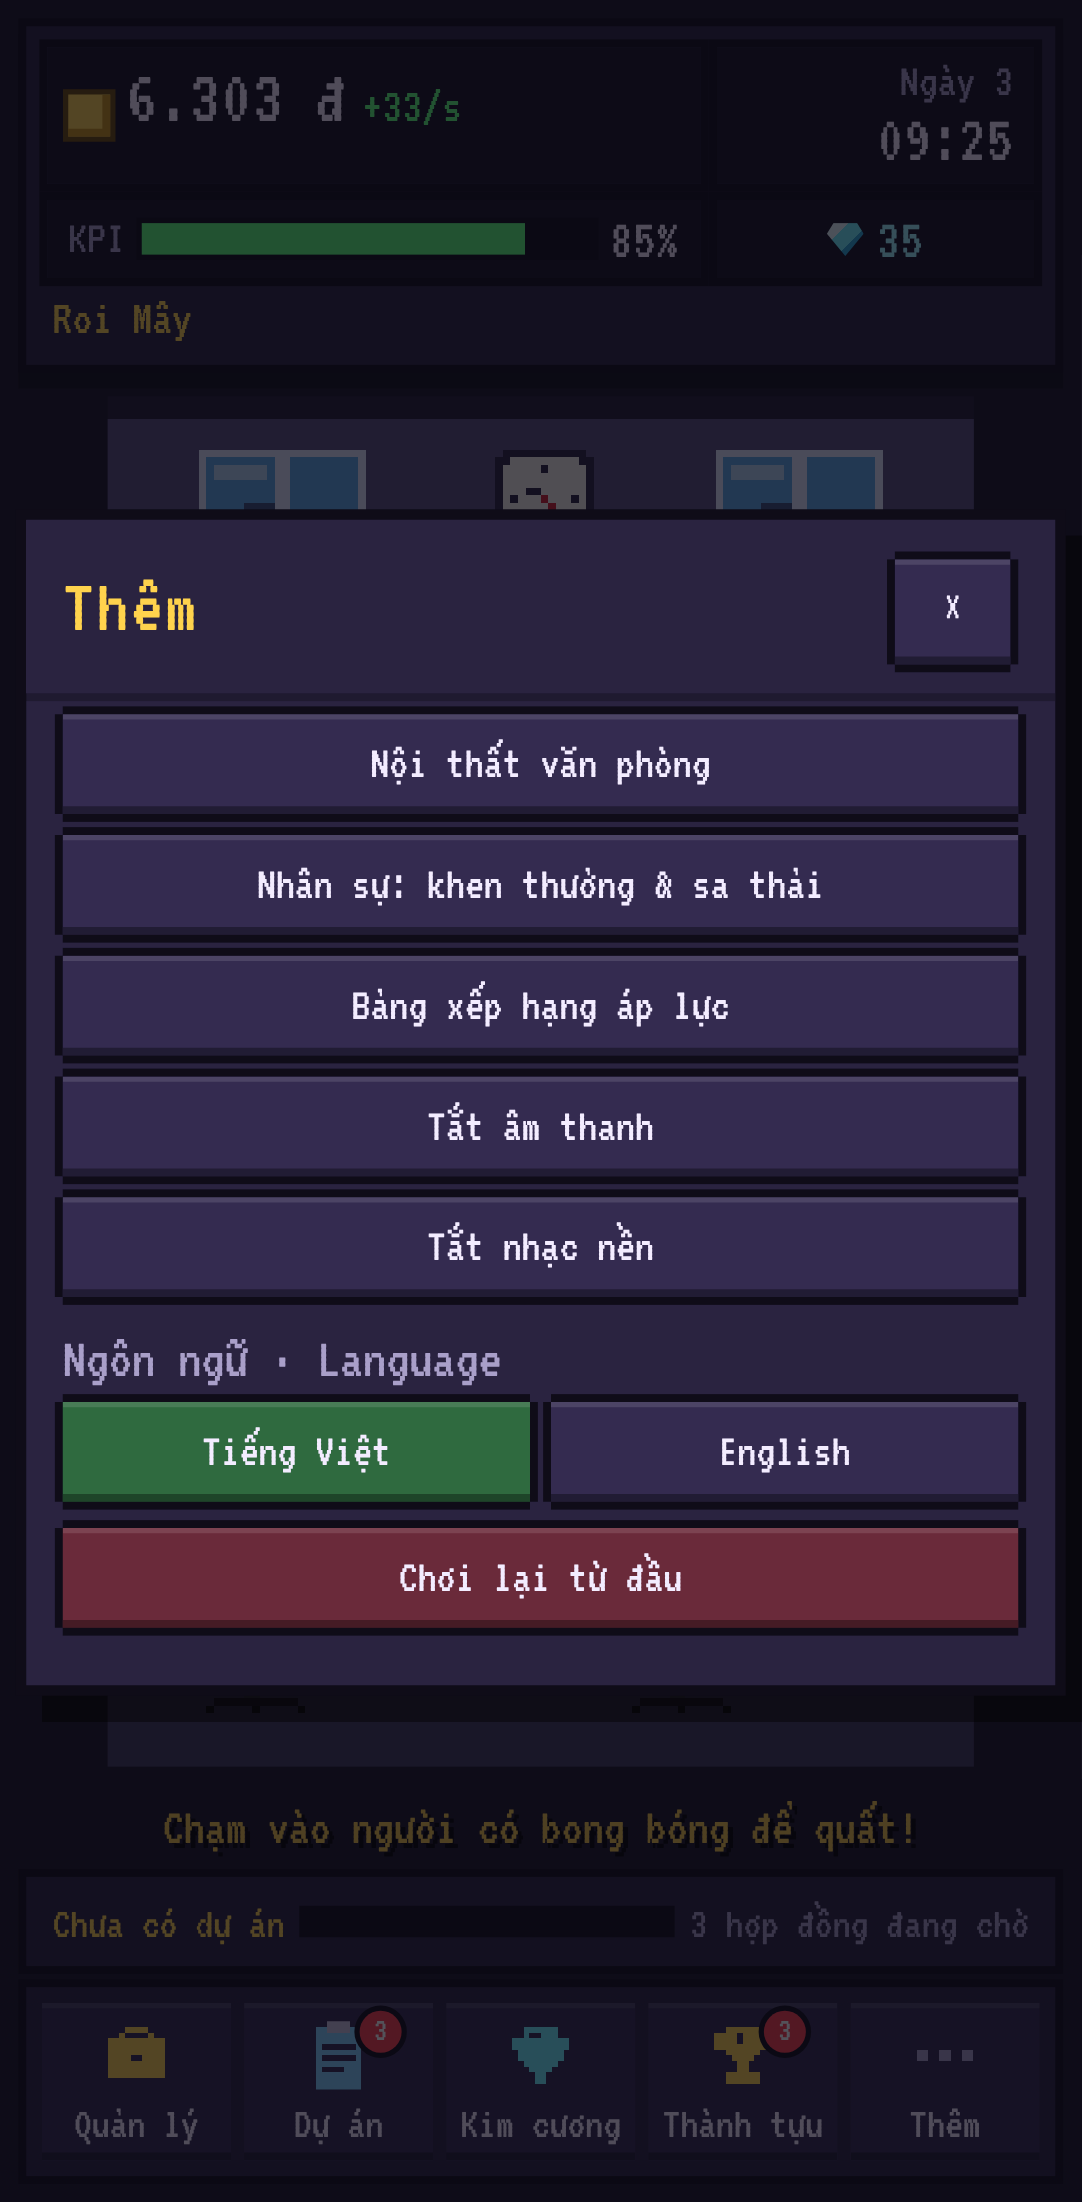
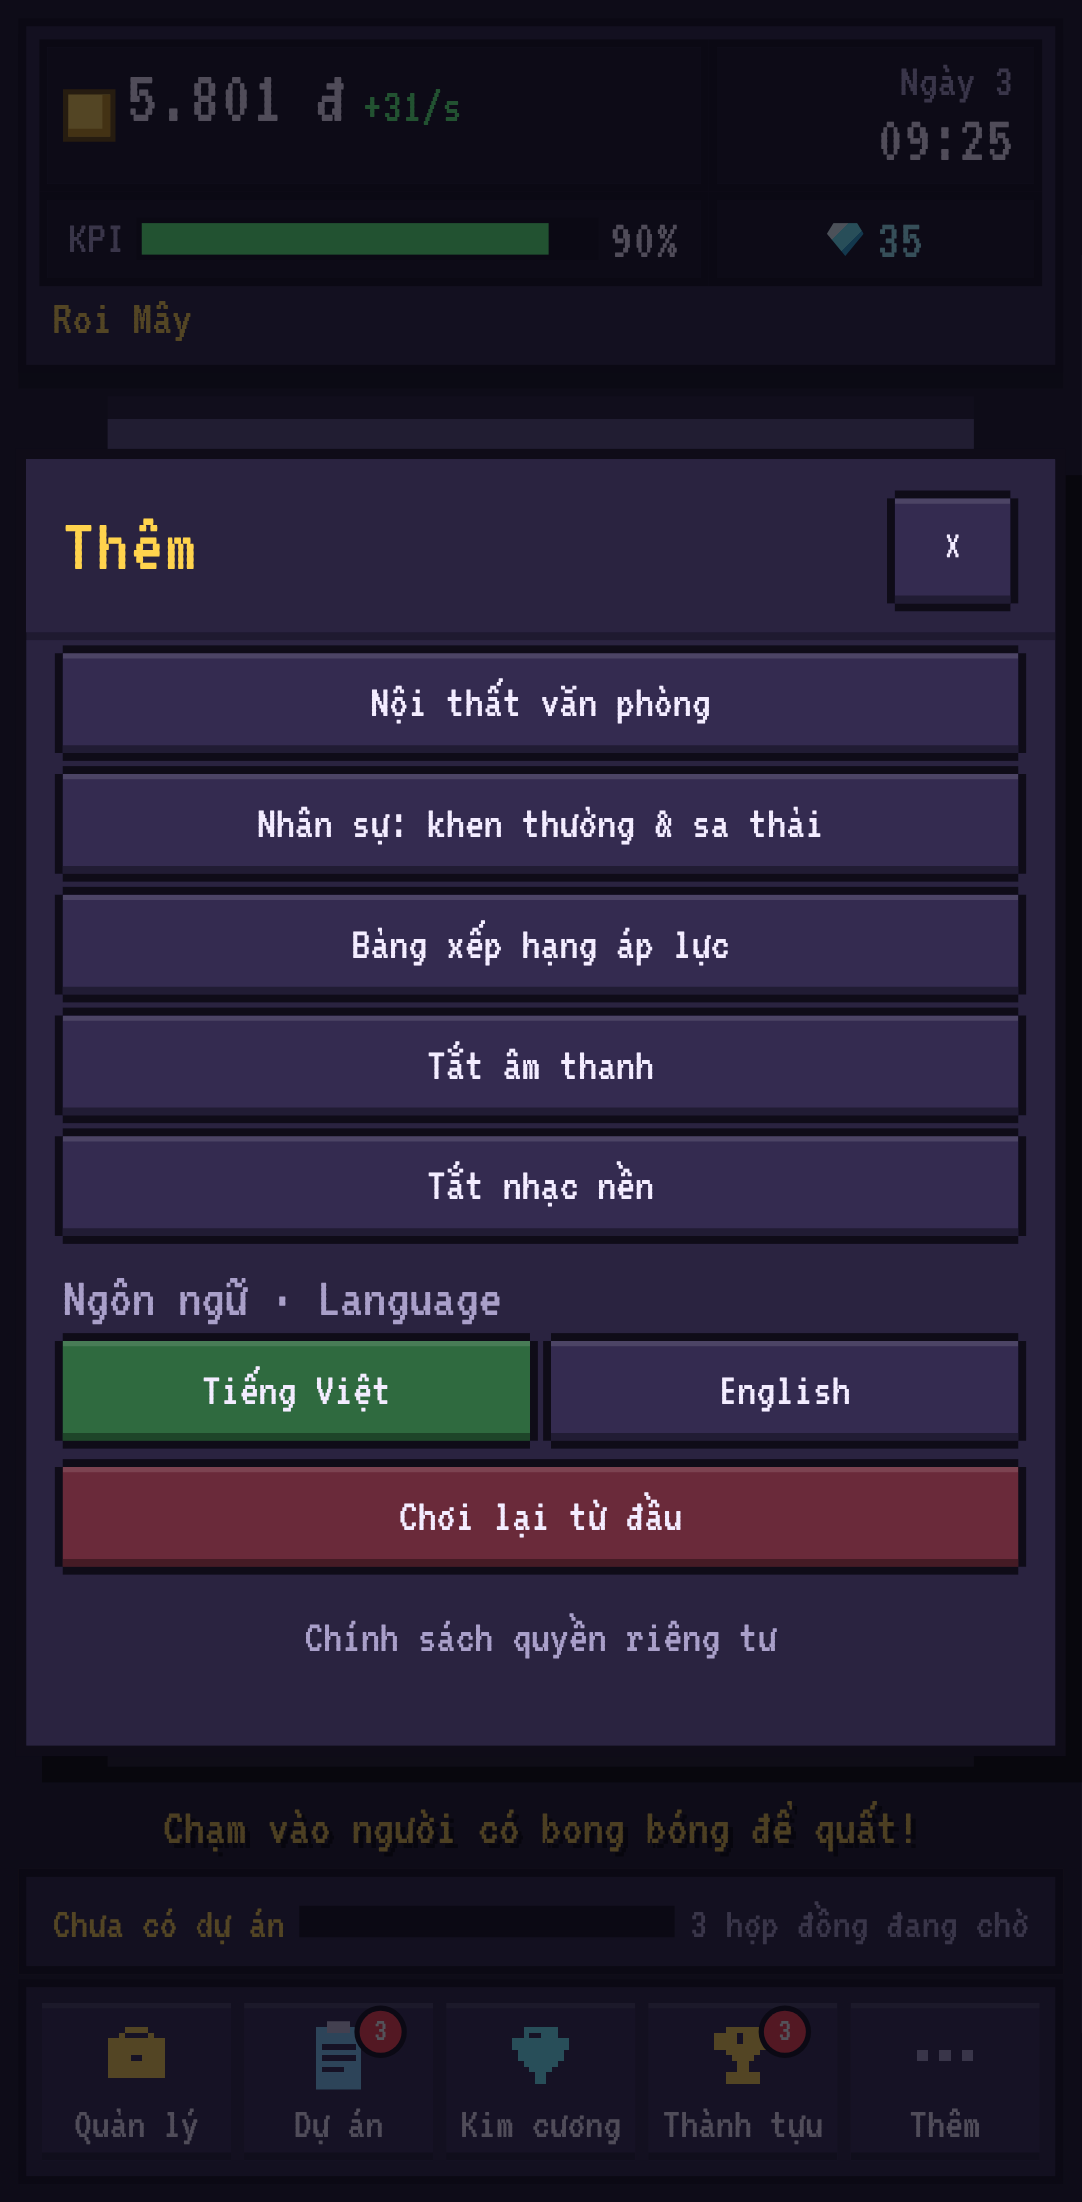
Privacy policy page + in-app link; version 1.0.1 (versionCode 2)
- docs/privacy.html (English + Vietnamese) for GitHub Pages, describing
  what the app actually does: no accounts, no analytics, no ad SDK, no
  network use; progress saved on the device only. Contact email to fill.
- Link in the More menu and at the bottom of the title screen
  (PRIVACY_URL), as Google Play requires a link inside the app too.
- make-brand also writes docs/icon.svg for the page.
- Version 1.0.1 / versionCode 2 for the next Play upload.

Claude-Session: https://claude.ai/code/session_01A8XVsTVXGot6KjvKj6K5SN

diff --git a/docs/privacy.html b/docs/privacy.html
@@ -1,0 +1,105 @@
+<!doctype html>
+<html lang="vi">
+<head>
+  <meta charset="utf-8">
+  <meta name="viewport" content="width=device-width, initial-scale=1">
+  <title>Whip Boss – Privacy Policy / Chính sách quyền riêng tư</title>
+  <meta name="description" content="Privacy policy of the mobile game Whip Boss (com.whipboss.game).">
+  <style>
+    :root { --bg: #f7f5fb; --ink: #1d1826; --muted: #5a5470; --card: #ffffff; --accent: #6a3fb8; --line: #e4def0; }
+    @media (prefers-color-scheme: dark) { :root { --bg: #15111f; --ink: #f3ecff; --muted: #a99fc9; --card: #1f1930; --accent: #b99cff; --line: #332b4d; } }
+    * { box-sizing: border-box; }
+    body { margin: 0; background: var(--bg); color: var(--ink); font: 16px/1.6 system-ui, -apple-system, "Segoe UI", Roboto, sans-serif; }
+    main { max-width: 760px; margin: 0 auto; padding: 24px 16px 48px; }
+    header { display: flex; align-items: center; gap: 14px; margin-bottom: 8px; }
+    header img { width: 56px; height: 56px; image-rendering: pixelated; border-radius: 12px; }
+    h1 { font-size: 26px; line-height: 1.2; margin: 0; }
+    h2 { font-size: 20px; margin: 28px 0 6px; }
+    h3 { font-size: 17px; margin: 18px 0 4px; }
+    p, li { color: var(--ink); }
+    .muted { color: var(--muted); }
+    nav { margin: 14px 0 20px; display: flex; gap: 10px; flex-wrap: wrap; }
+    nav a { padding: 6px 12px; border: 1px solid var(--line); border-radius: 999px; color: var(--accent); text-decoration: none; }
+    section { background: var(--card); border: 1px solid var(--line); border-radius: 14px; padding: 6px 20px 18px; margin-bottom: 22px; }
+    a { color: var(--accent); }
+    ul { padding-left: 22px; }
+  </style>
+</head>
+<body>
+<main>
+  <header>
+    <img src="icon.svg" alt="Whip Boss">
+    <div>
+      <h1>Whip Boss</h1>
+      <div class="muted">Privacy Policy · Chính sách quyền riêng tư</div>
+    </div>
+  </header>
+  <p class="muted">Effective date / Ngày hiệu lực: 3 November 2026 · App: Whip Boss (Android package <code>com.whipboss.game</code>)</p>
+  <nav><a href="#en">English</a><a href="#vi">Tiếng Việt</a></nav>
+
+  <section id="en" lang="en">
+    <h2>Privacy Policy (English)</h2>
+    <p>This policy explains how the game <b>Whip Boss</b> ("the app", "we") handles information. In short: <b>the app does not collect, store on any server, sell or share any personal data.</b></p>
+
+    <h3>1. Information we collect</h3>
+    <p>None. The app has no user accounts, no sign-in, no analytics, no advertising SDK and no tracking. It does not ask for or read your name, email, contacts, location, photos, camera, microphone, device identifiers or any other personal or sensitive information.</p>
+
+    <h3>2. Data stored on your device</h3>
+    <p>Your game progress (money, day, staff, upgrades, achievements) and settings (language, sound, music) are saved <b>only on your own device</b>, in the app's private storage, so you can continue where you left off. This data never leaves your device and we cannot access it. Uninstalling the app or clearing its data deletes it. The in-game "Restart from the beginning" option also deletes your progress.</p>
+
+    <h3>3. Internet and permissions</h3>
+    <p>The game works fully offline and does not send data over the internet. The Android permissions it declares are: <i>Internet</i> (standard for this app framework; not used to send personal data) and <i>Vibrate</i> (haptic feedback when you play).</p>
+
+    <h3>4. Advertising</h3>
+    <p>The current version contains no third-party advertising. The "watch an ad" buttons show a short in-game simulation and collect no data. If real ads (for example Google AdMob) are added in a future version, this policy will be updated before that version is released to describe what data the ad provider processes and your choices.</p>
+
+    <h3>5. Sharing of information</h3>
+    <p>We do not share, sell or transfer any user data to third parties, because we do not collect any.</p>
+
+    <h3>6. Children</h3>
+    <p>The app is not directed at children under 13 and does not knowingly collect personal information from anyone, including children.</p>
+
+    <h3>7. Security</h3>
+    <p>Because no personal data is collected or transmitted, there is no personal data held by us that could be exposed. Data saved on your device is protected by your device's own security.</p>
+
+    <h3>8. Changes to this policy</h3>
+    <p>We may update this policy, for example if new features are added. The new version will be published on this page with a new effective date.</p>
+
+    <h3>9. Contact</h3>
+    <p>Questions about this policy: <a href="mailto:__CONTACT_EMAIL__">__CONTACT_EMAIL__</a></p>
+  </section>
+
+  <section id="vi" lang="vi">
+    <h2>Chính sách quyền riêng tư (Tiếng Việt)</h2>
+    <p>Chính sách này giải thích cách trò chơi <b>Whip Boss</b> ("ứng dụng", "chúng tôi") xử lý thông tin. Tóm tắt: <b>ứng dụng không thu thập, không lưu lên máy chủ, không bán và không chia sẻ bất kỳ dữ liệu cá nhân nào.</b></p>
+
+    <h3>1. Thông tin chúng tôi thu thập</h3>
+    <p>Không có. Ứng dụng không có tài khoản, không đăng nhập, không có công cụ phân tích, không có SDK quảng cáo và không theo dõi người dùng. Ứng dụng không yêu cầu hay đọc tên, email, danh bạ, vị trí, ảnh, camera, micro, mã định danh thiết bị hay bất kỳ thông tin cá nhân hoặc nhạy cảm nào.</p>
+
+    <h3>2. Dữ liệu lưu trên thiết bị của bạn</h3>
+    <p>Tiến trình chơi (tiền, ngày, nhân viên, nâng cấp, thành tựu) và cài đặt (ngôn ngữ, âm thanh, nhạc) được lưu <b>chỉ trên thiết bị của bạn</b>, trong vùng lưu trữ riêng của ứng dụng, để bạn chơi tiếp lần sau. Dữ liệu này không rời khỏi thiết bị và chúng tôi không thể truy cập. Gỡ ứng dụng hoặc xoá dữ liệu ứng dụng sẽ xoá dữ liệu này. Mục "Chơi lại từ đầu" trong game cũng xoá tiến trình.</p>
+
+    <h3>3. Internet và quyền truy cập</h3>
+    <p>Trò chơi hoạt động hoàn toàn ngoại tuyến và không gửi dữ liệu qua internet. Các quyền Android ứng dụng khai báo: <i>Internet</i> (mặc định của nền tảng ứng dụng, không dùng để gửi dữ liệu cá nhân) và <i>Rung</i> (rung phản hồi khi chơi).</p>
+
+    <h3>4. Quảng cáo</h3>
+    <p>Phiên bản hiện tại không có quảng cáo của bên thứ ba. Các nút "xem quảng cáo" chỉ hiển thị một đoạn mô phỏng ngắn trong game và không thu thập dữ liệu. Nếu sau này thêm quảng cáo thật (ví dụ Google AdMob), chính sách này sẽ được cập nhật trước khi phát hành phiên bản đó, nêu rõ dữ liệu mà nhà cung cấp quảng cáo xử lý và lựa chọn của bạn.</p>
+
+    <h3>5. Chia sẻ thông tin</h3>
+    <p>Chúng tôi không chia sẻ, bán hay chuyển dữ liệu người dùng cho bên thứ ba, vì chúng tôi không thu thập dữ liệu nào.</p>
+
+    <h3>6. Trẻ em</h3>
+    <p>Ứng dụng không hướng đến trẻ em dưới 13 tuổi và không cố ý thu thập thông tin cá nhân của bất kỳ ai, kể cả trẻ em.</p>
+
+    <h3>7. Bảo mật</h3>
+    <p>Vì không thu thập hay truyền dữ liệu cá nhân, chúng tôi không nắm giữ dữ liệu cá nhân nào có thể bị lộ. Dữ liệu lưu trên thiết bị được bảo vệ bởi cơ chế bảo mật của chính thiết bị.</p>
+
+    <h3>8. Thay đổi chính sách</h3>
+    <p>Chúng tôi có thể cập nhật chính sách này, ví dụ khi thêm tính năng mới. Phiên bản mới sẽ được đăng trên trang này kèm ngày hiệu lực mới.</p>
+
+    <h3>9. Liên hệ</h3>
+    <p>Câu hỏi về chính sách này: <a href="mailto:__CONTACT_EMAIL__">__CONTACT_EMAIL__</a></p>
+  </section>
+</main>
+</body>
+</html>

diff --git a/js/screens.js b/js/screens.js
@@ -2,7 +2,7 @@
 // Each screen renders into #modal. While it is open, tick() (called from ui.update every 0.1s)
 // re-renders it when its signature changes, and live() updates fast-moving numbers in place
 // so a re-render never swallows a tap.
-import { ROLES, OFFICE_LEVELS, PREMIUM_ITEMS, ADS, MAX_STAFF } from './config.js';
+import { ROLES, OFFICE_LEVELS, PREMIUM_ITEMS, ADS, MAX_STAFF, PRIVACY_URL } from './config.js';
 import { faceUrl, hirePrice, skillMult } from './cv.js';
 import { progressOf, penaltyOf } from './projects.js';
 import { achievementList, claimableCount } from './achievements.js';
@@ -221,6 +221,7 @@ export function createScreens({ g, act, modal, fmt, esc, mobile = false }) {
       <button class="px-btn wide" data-a="mute">${g.muted ? t('Bật âm thanh') : t('Tắt âm thanh')}</button>
       ${mobile ? `<button class="px-btn wide" data-a="music">${g.musicOff ? t('Bật nhạc nền') : t('Tắt nhạc nền')}</button>` : ''}
       <h3>${t('Ngôn ngữ')}${getLang() === 'en' ? '' : ' · Language'}</h3><div class="lang-row">${Object.entries(LANGS).map(([code, l]) => `<button class="px-btn ${code === getLang() ? 'on' : ''}" data-a="setLang" data-arg="${code}">${l.name}</button>`).join('')}</div><button class="px-btn wide danger" data-a="reset">${t('Chơi lại từ đầu')}</button>
+      <a class="px-btn wide link" href="${PRIVACY_URL}" target="_blank" rel="noopener">${t('Chính sách quyền riêng tư')}</a>
     </div>`;
 
   const screens = {

diff --git a/js/title.js b/js/title.js
@@ -2,6 +2,7 @@
 // a big start button, plus sound / music / language toggles. The simulation waits until the
 // player taps start (main.js → onTitle).
 import { drawLogo, drawTitle, titleSize } from './brand.js';
+import { PRIVACY_URL } from './config.js';
 import { t, getLang, LANGS } from './i18n.js';
 import { hash } from './pixel.js';
 
@@ -84,7 +85,7 @@ export function showTitle({ g, fmt, onStart, onToggleSound, onToggleMusic, onLan
         <button class="px-btn" data-k="lang">${LANGS[langs[(langs.indexOf(getLang()) + 1) % langs.length]].name}</button>
       </div>
     </div>
-    <div class="title-foot">v1.0 · © Whip Boss</div>`;
+    <div class="title-foot">v1.0.1 · © Whip Boss · <a href="${PRIVACY_URL}" target="_blank" rel="noopener">${t('Quyền riêng tư')}</a></div>`;
   document.body.appendChild(el);
 
   const labels = () => {

diff --git a/js/config.js b/js/config.js
@@ -101,6 +101,9 @@ export const RANKS = [
 // Kim cương (💎): earned from achievements, projects and rewarded ads; spent on premium items.
 export const GEMS_START = 10;
 
+// Privacy policy (docs/privacy.html on GitHub Pages). Google Play requires a link in the app too.
+export const PRIVACY_URL = 'https://toankunsss.github.io/Seproi/privacy.html';
+
 // --- Recruitment (CV) -----------------------------------------------------------------------
 // Every day a few candidates send in a CV. Traits are 1..5 stars and change the simulation:
 //   skill → income & project work, lazy → how often they slack, grit → stress they take per whip.

diff --git a/css/style.css b/css/style.css
@@ -679,3 +679,5 @@ html:has(body.shell.mode-mini), body.shell.mode-mini { background: transparent; 
   .item.has-art, .decor-row { grid-template-columns: 52px 1fr; }
   .item.has-art .buy, .decor-row .buy { grid-column: 2; justify-self: start; }
 }
+.px-btn.link { text-align: center; text-decoration: none; font-size: 18px; color: var(--muted); background: transparent; box-shadow: none; }
+.title-foot a { color: #b4a6e8; }

diff --git a/docs/index.html b/docs/index.html
@@ -1,0 +1,4 @@
+<!doctype html>
+<html lang="en"><head><meta charset="utf-8"><meta name="viewport" content="width=device-width, initial-scale=1">
+<title>Whip Boss</title><meta http-equiv="refresh" content="0; url=privacy.html"></head>
+<body style="font-family:system-ui,sans-serif"><p><a href="privacy.html">Whip Boss – Privacy Policy</a></p></body></html>

diff --git a/js/lang/en.js b/js/lang/en.js
@@ -420,4 +420,7 @@ export default {
   "Xong sớm {n} ngày!": "{n} day(s) early!",
   "Xem quảng cáo: nhận x2 tiền (+{m} đ)": "Watch an ad: x2 money (+{m} đ)",
   "+{m} đ · +{n} KIM CƯƠNG": "+{m} đ · +{n} DIAMONDS",
+  // privacy policy link
+  "Chính sách quyền riêng tư": "Privacy policy",
+  "Quyền riêng tư": "Privacy",
 };

diff --git a/docs/MOBILE.md b/docs/MOBILE.md
@@ -172,6 +172,7 @@ Trong Xcode chọn thiết bị *Any iOS Device* → Product → **Archive** →
 
 - Nội dung game là hài hước châm biếm nhưng có cảnh "quất" nhân viên. Khi khai báo phân loại độ tuổi (IARC trên Google Play, Age Rating trên App Store), hãy chọn đúng mục bạo lực hoạt hình/hài hước để tránh bị từ chối.
 - Game không thu thập dữ liệu, không có quảng cáo, không gọi mạng: phần khai báo Data safety / Privacy Nutrition Label chọn "Không thu thập dữ liệu". Nếu sau này thêm analytics hoặc quảng cáo thì phải khai báo lại.
+- **Chính sách quyền riêng tư** (bắt buộc): trang `docs/privacy.html`, đăng bằng GitHub Pages tại https://toankunsss.github.io/Seproi/privacy.html (bật một lần: repo → Settings → Pages → Source *Deploy from a branch* → chọn nhánh chứa code, thư mục `/docs` → Save). Trong game có link ở menu **Thêm** và cuối màn tiêu đề (`PRIVACY_URL` trong `config.js`). Khi thêm quảng cáo thật hay analytics phải sửa lại trang này.
 - `appId` là `com.whipboss.game` (trùng với bản desktop). Sau lần upload đầu tiên lên Google Play thì **không đổi được nữa**.
 
 ## Thêm plugin native mới
